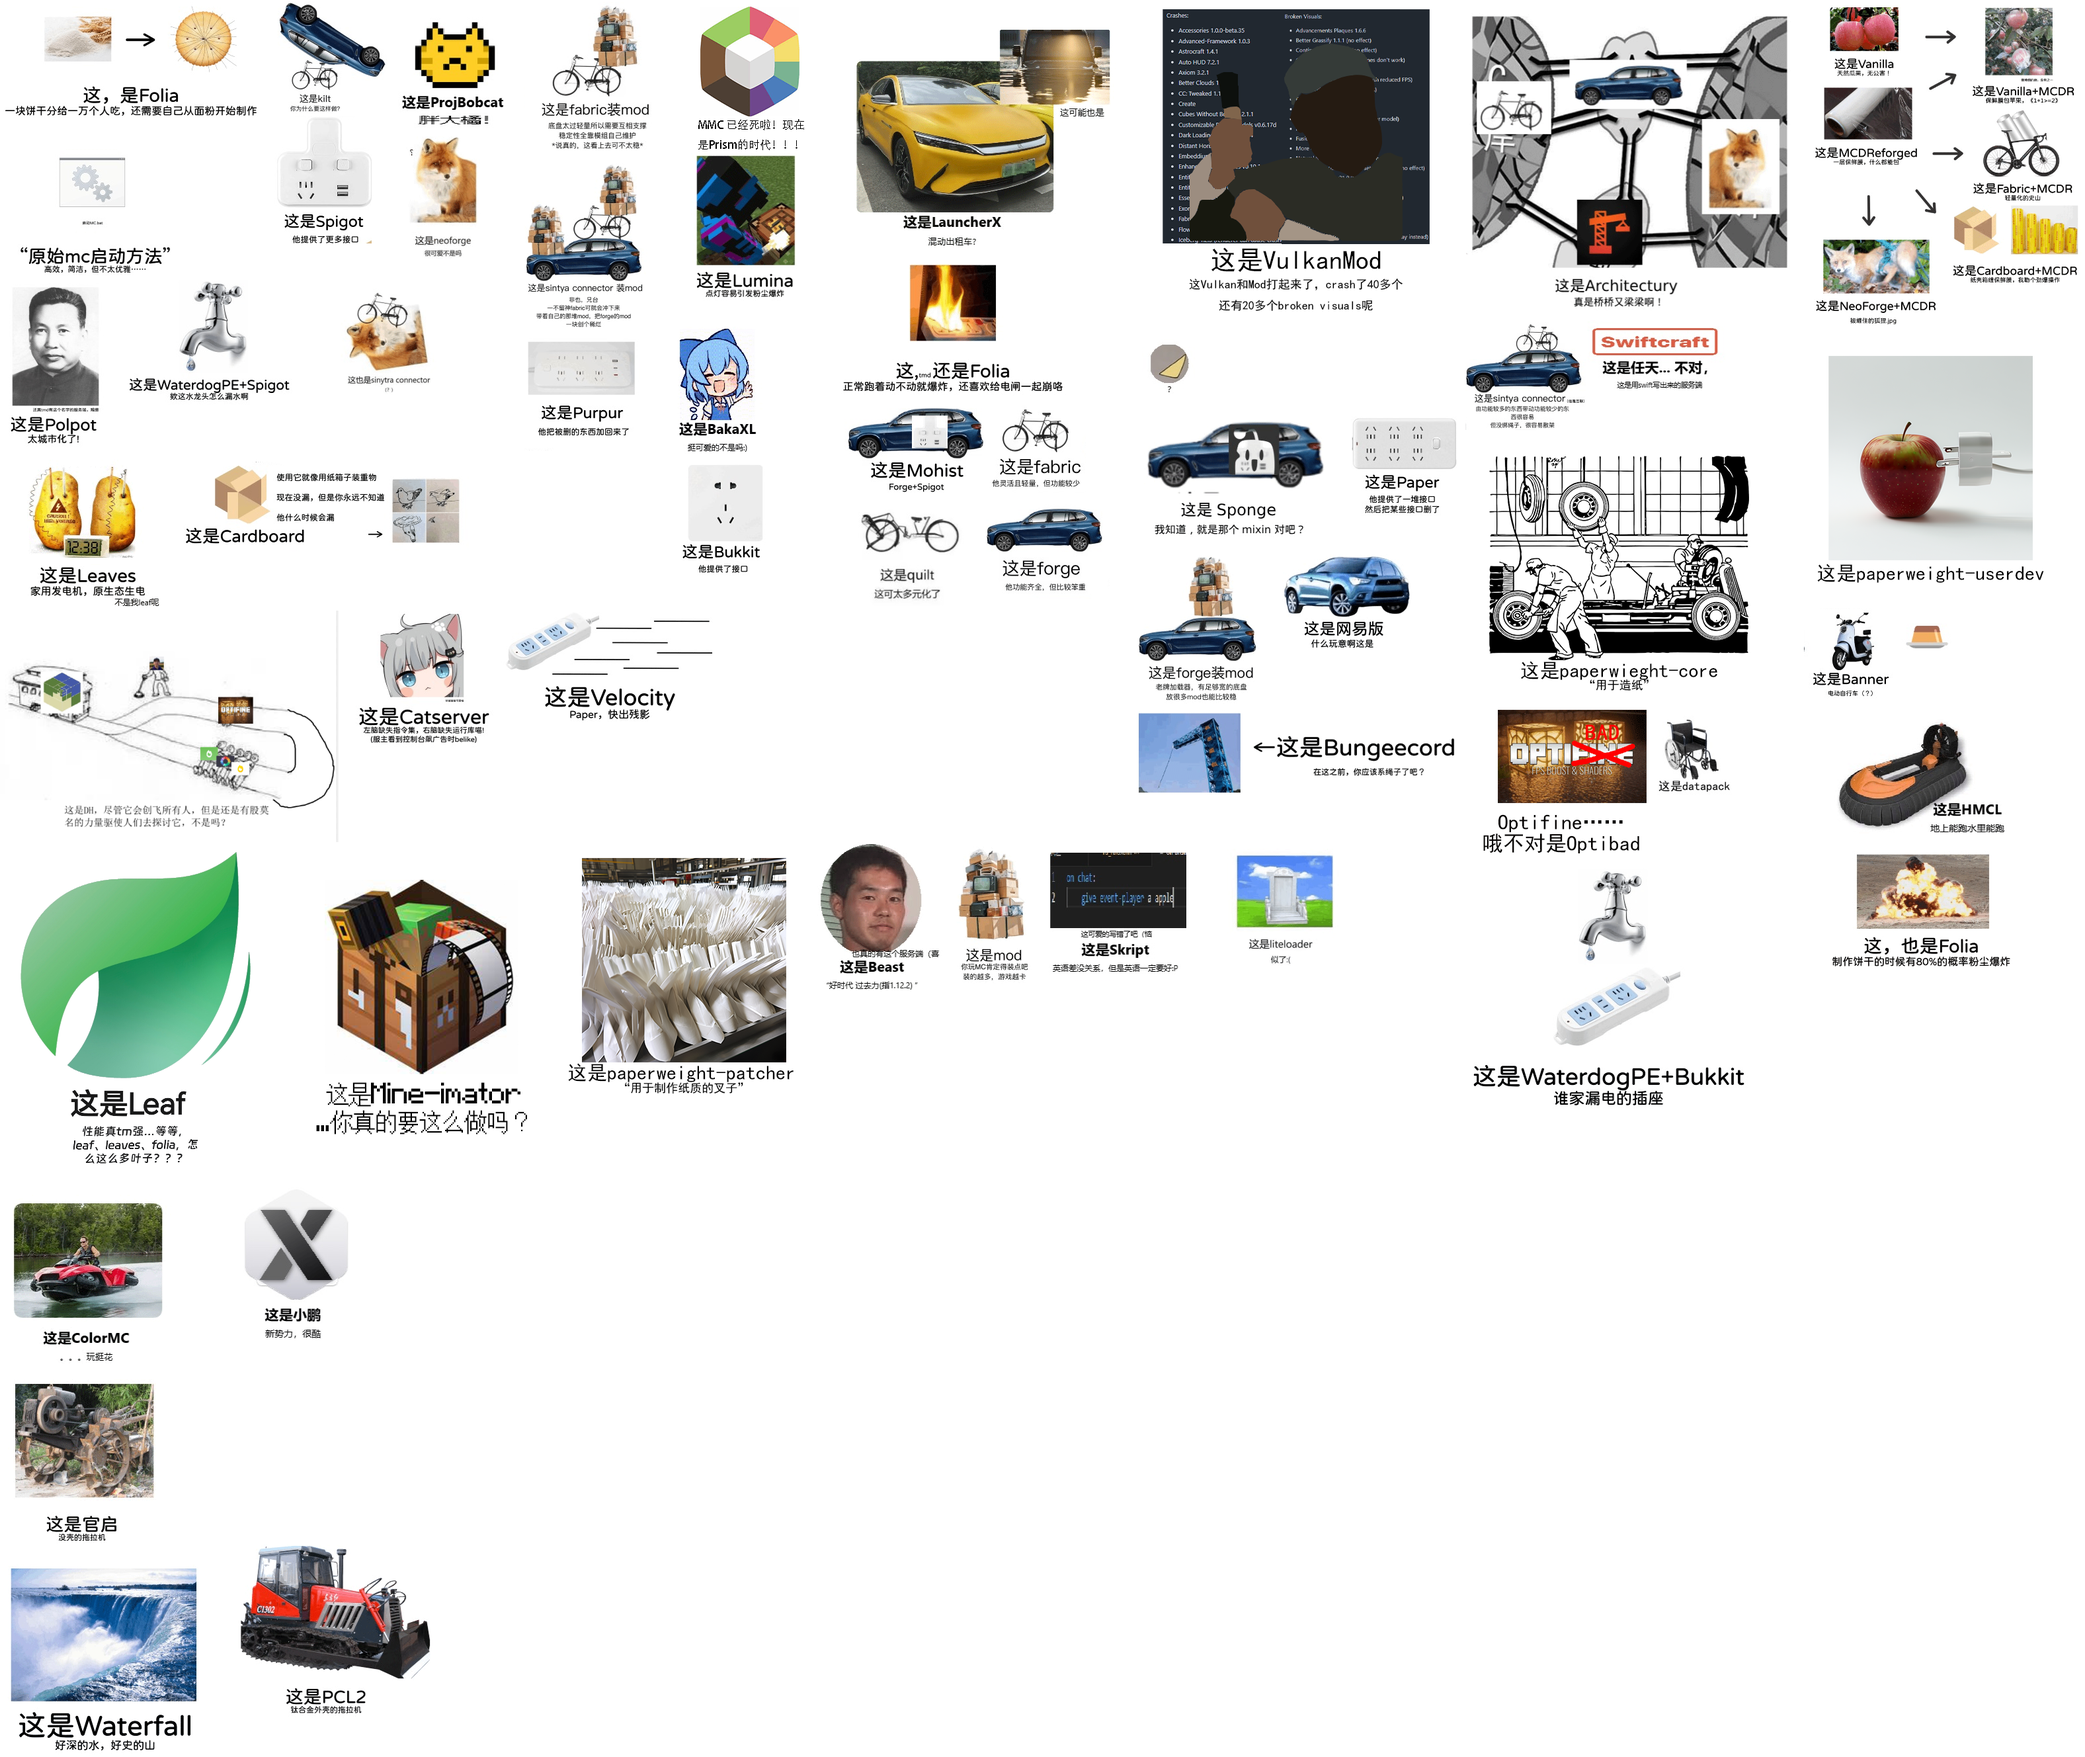
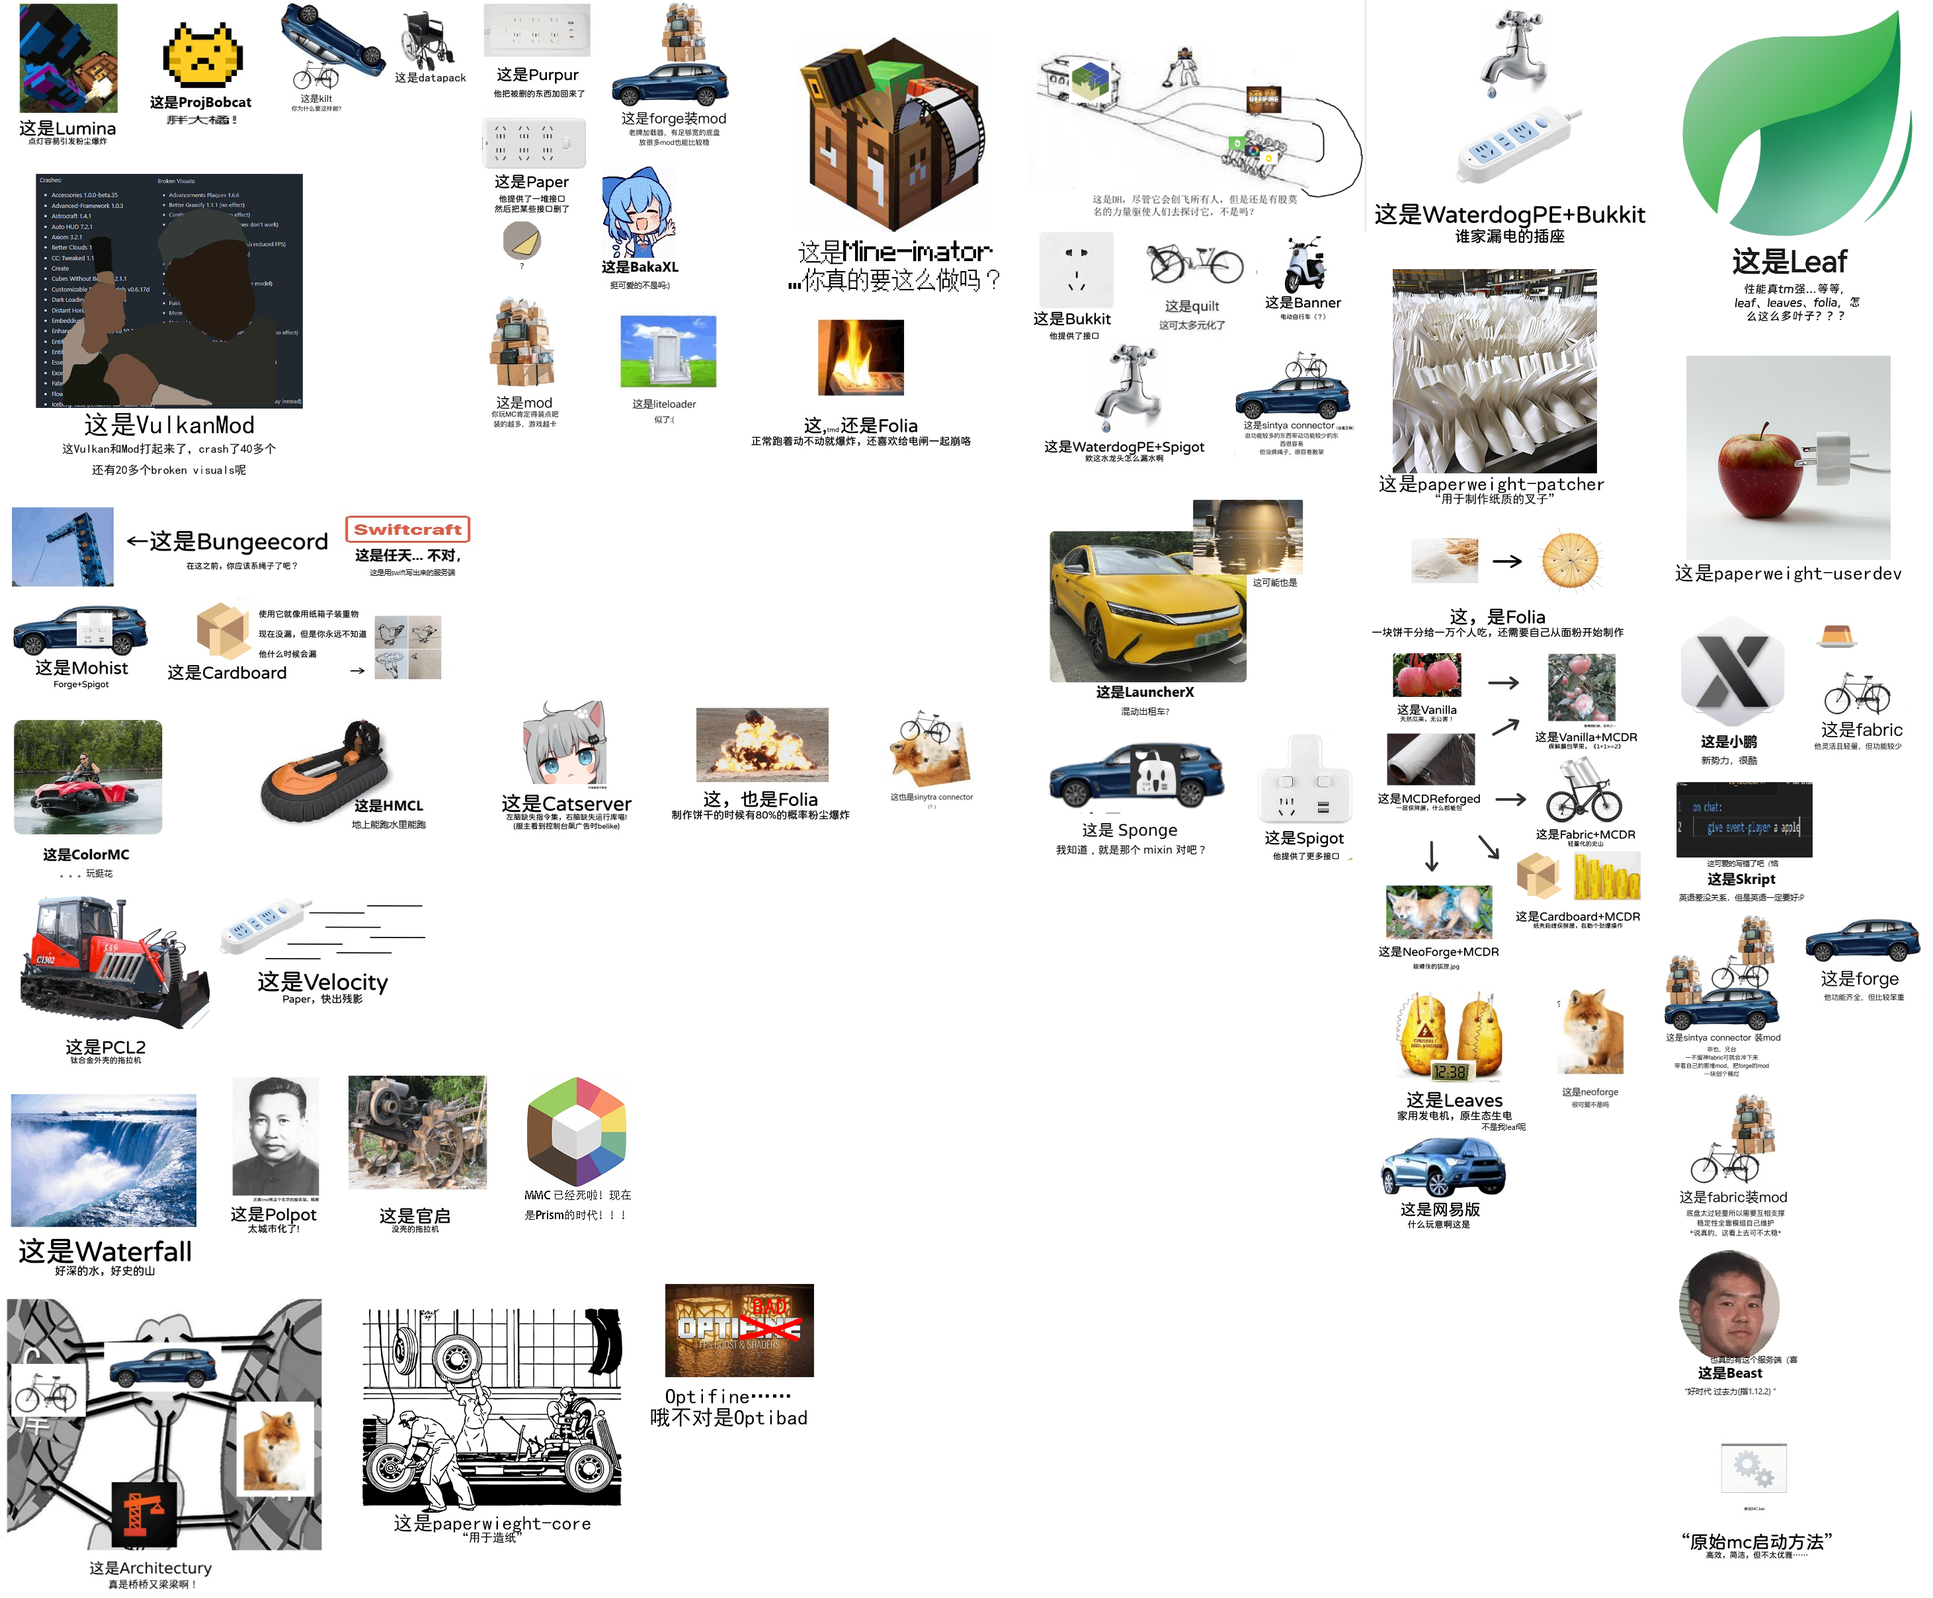
finish

diff --git a/auto_pack_img.py b/auto_pack_img.py
@@ -98,7 +98,7 @@ def stitch_images_bin_packing(images):
 
 
 
-def load_images_from_folder(folder,max_height=512,max_width=512):
+def load_images_from_folder(folder,max_height=256,max_width=256):
     images = []
     for filename in os.listdir(folder):
         img = cv2.imread(os.path.join(folder, filename))
